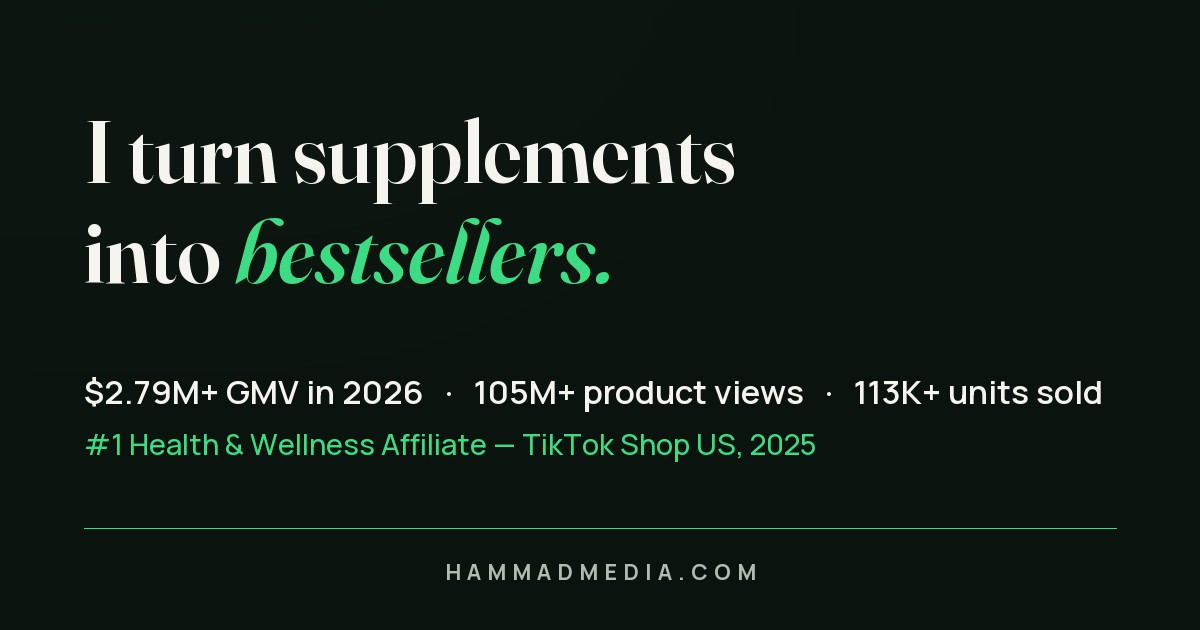
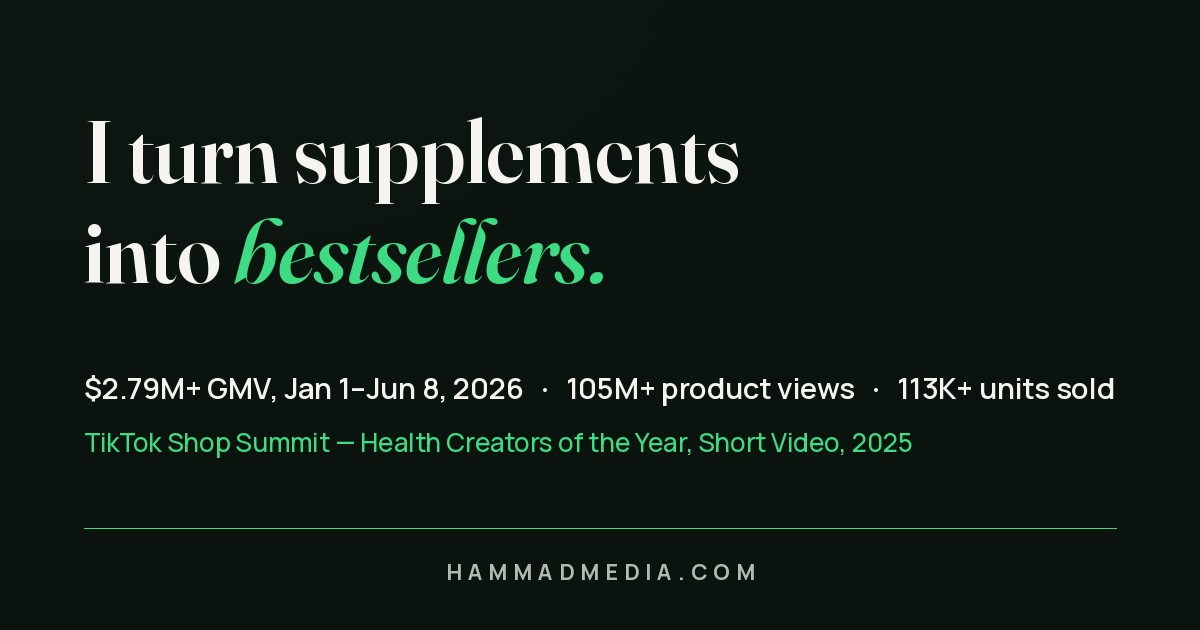
Replace production og.jpg so share chrome drops the #1 title.
Regenerate the 1200x630 OG/Twitter image with dated GMV and Summit award wording, and set og:image:alt to the authorized description only.

diff --git a/test/build.test.js b/test/build.test.js
@@ -314,7 +314,53 @@ test("og/social meta present with absolute image URL", () => {
   assert.ok(html.includes('property="og:url" content="https://hammadmedia.com/"'), "og:url must include trailing slash");
   assert.ok(html.includes('property="og:image:width" content="1200"'), "og:image:width missing");
   assert.ok(html.includes('property="og:image:height" content="630"'), "og:image:height missing");
-  assert.ok(html.includes('property="og:image:alt"'), "og:image:alt missing");
+  const authorizedOgAlt =
+    "Creator-led TikTok Shop campaigns for supplement and wellness brands. Paid packages start at 5 videos for $5,000 upfront, plus TikTok Shop commission.";
+  assert.ok(
+    html.includes(`property="og:image:alt" content="${authorizedOgAlt}"`),
+    "og:image:alt must be the authorized description only",
+  );
+  assert.ok(
+    !/property="og:image:alt" content="I turn supplements into bestsellers/i.test(html),
+    "og:image:alt must not lead with the H1",
+  );
+  assert.ok(html.includes('name="twitter:image" content="https://hammadmedia.com/assets/og.jpg"'), "twitter:image must use og.jpg");
+});
+
+test("og.jpg is the corrected 1200x630 share image and its generator dropped the #1 title", () => {
+  const ogPath = path.join(ROOT, "assets", "og.jpg");
+  const distOg = path.join(ROOT, "dist", "assets", "og.jpg");
+  assert.ok(fs.existsSync(ogPath), "assets/og.jpg missing");
+  assert.ok(fs.existsSync(distOg), "dist/assets/og.jpg missing — share chrome would still ship the old file");
+  const buf = fs.readFileSync(ogPath);
+  assert.strictEqual(buf[0], 0xff);
+  assert.strictEqual(buf[1], 0xd8);
+  let w = 0;
+  let h = 0;
+  for (let i = 2; i < Math.min(buf.length, 65536); ) {
+    if (buf[i] !== 0xff) {
+      i += 1;
+      continue;
+    }
+    const marker = buf[i + 1];
+    if (marker === 0xd8 || marker === 0xd9 || (marker >= 0xd0 && marker <= 0xd7) || marker === 0x01) {
+      i += 2;
+      continue;
+    }
+    const seglen = buf.readUInt16BE(i + 2);
+    if (marker === 0xc0 || marker === 0xc1 || marker === 0xc2) {
+      h = buf.readUInt16BE(i + 5);
+      w = buf.readUInt16BE(i + 7);
+      break;
+    }
+    i += 2 + seglen;
+  }
+  assert.strictEqual(w, 1200);
+  assert.strictEqual(h, 630);
+  const generator = fs.readFileSync(path.join(ROOT, "tools", "make_og.py"), "utf8");
+  assert.ok(!generator.includes("#1 Health & Wellness Affiliate"), "make_og.py still paints the retired #1 title");
+  assert.ok(generator.includes("TikTok Shop Summit — Health Creators of the Year, Short Video, 2025"), "make_og.py must use Summit language");
+  assert.ok(generator.includes("GMV, Jan 1–Jun 8, 2026"), "make_og.py must date the GMV line");
 });
 
 test("no personal names on the page outside the authorized WhatsApp prefill", () => {

diff --git a/template.html b/template.html
@@ -21,7 +21,7 @@
 <meta property="og:image" content="{{site.ogImage}}">
 <meta property="og:image:width" content="1200">
 <meta property="og:image:height" content="630">
-<meta property="og:image:alt" content="I turn supplements into bestsellers. Creator-led TikTok Shop campaigns for supplement and wellness brands. Paid packages start at 5 videos for $5,000 upfront, plus TikTok Shop commission. HAMMADMEDIA.COM">
+<meta property="og:image:alt" content="Creator-led TikTok Shop campaigns for supplement and wellness brands. Paid packages start at 5 videos for $5,000 upfront, plus TikTok Shop commission."
 <meta property="og:site_name" content="Hammad Media">
 <meta property="og:locale" content="en_US">
 <meta name="twitter:card" content="summary_large_image">

diff --git a/tools/make_og.py b/tools/make_og.py
@@ -69,13 +69,21 @@ d.text((M + x, 196), "bestsellers.", font=h_italic, fill=GREEN)
 # proof lines from content.json — never hand-typed
 stat = lambda kw: next(s["value"] for s in content["stats"] if kw in s["label"])
 line1 = (
-    f"{content['hero']['gmvYtd']} GMV in 2026   ·   "
+    f"{content['hero']['gmvYtd']} GMV, Jan 1–Jun 8, 2026   ·   "
     f"{stat('PRODUCT VIEWS')} product views   ·   {stat('UNITS SOLD')} units sold"
 )
-line2 = "#1 Health & Wellness Affiliate — TikTok Shop US, 2025"
+line2 = "TikTok Shop Summit — Health Creators of the Year, Short Video, 2025"
 
-m_semibold = load_font("manrope", 33, [600])
-m_medium = load_font("manrope", 29, [500])
+def fit_font(name, size, axes, text, max_width):
+    font = load_font(name, size, axes)
+    while size >= 20 and d.textlength(text, font=font) > max_width:
+        size -= 1
+        font = load_font(name, size, axes)
+    return font
+
+max_w = W - M * 2
+m_semibold = fit_font("manrope", 30, [600], line1, max_w)
+m_medium = fit_font("manrope", 26, [500], line2, max_w)
 d.text((M, 368), line1, font=m_semibold, fill=PAPER)
 d.text((M, 424), line2, font=m_medium, fill=GREEN)
 
